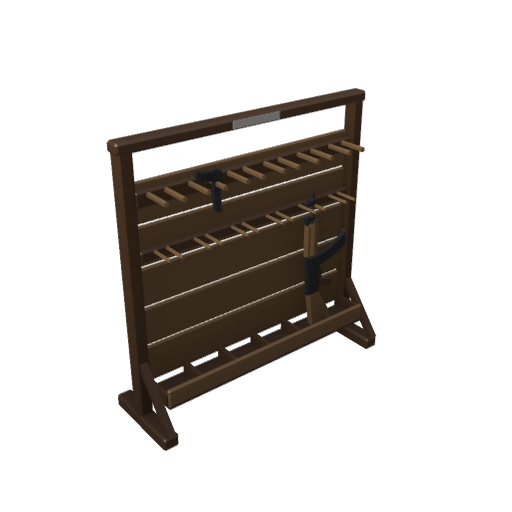
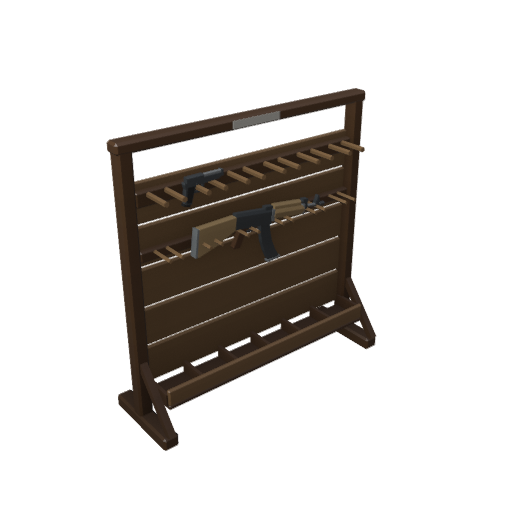
Weapon rack rev c: AK and pistol re-posed to read at range

Changed region(s): [[0.3438, 0.3125, 0.6875, 0.625]]

diff --git a/assets/source/prop/prop_weapon_rack_a/build.py b/assets/source/prop/prop_weapon_rack_a/build.py
@@ -1,8 +1,8 @@
 """prop_weapon_rack_a — free-standing wall-style gun rack on legs, 1.6 x 1.6 x 0.5 m (empty).
 Plank backboard between two posts with splayed feet, a butt tray at the bottom and peg pairs at the top
 (front = -Z). Sockets SOCKET_slot_0..5 mark where a long gun rests (butt-in-tray point).
-rev b (QA-029): a lower barrel-rest rail at y = 1.0 for long guns, and a separate child part "GUNS"
-(an AK standing in slot 1, a pistol hanging by its trigger guard in slot 4) that the world hides once looted.
+rev b (QA-029): a lower rail with pegs at y = 1.0, and a separate child part "GUNS" (an AK lying across the
+lower pegs, a pistol hooked by its trigger guard on the top pegs) that the world hides once looted.
 """
 import os
 import sys
@@ -57,15 +57,20 @@ def slot_x(k):
     return -PX + 0.04 + (2 * PX - 0.08) * (k + 0.5) / SLOTS
 
 
-# GUNS part (pivot at the rack origin): simplified (lod 1) copies of wpn_rifle_a / wpn_pistol_a
+# GUNS part (pivot at the rack origin): simplified (lod 1) copies of wpn_rifle_a / wpn_pistol_a, lying
+# horizontally on the pegs with their side profile to the front (-Z), muzzles toward -X, a little proud of the
+# rails. Recoloured lighter than the board so they read from 3-6 m.
+LIGHT = {"wood_raw": "plywood", "wood_dark": "leather_brown", "metal_gun": "metal_dark", "metal_dark": "metal_bare"}
+PEG_TOP_REST = REST_Y + 0.015 + 0.012
+PEG_TOP_UP = 1.32 + 0.015
 m.part("GUNS", pivot=(0, 0, 0))
-bore_x = wpnlib.RIFLE_BORE - wpnlib.GY  # gun-space height of the bore above the grip -> +X once stood up
-with m.xform((slot_x(1) - bore_x, 0.215 + 0.29, -0.07), (0, 90, 0)):  # side faces -Z, receiver top to +X
-    with m.xform(rot=(90, 0, 0)):  # muzzle up, butt down in the tray
-        wpnlib.rifle_body(m, 1)
-        wpnlib.rifle_mag(m, lod=1)
-with m.xform((slot_x(4) + 0.0015, 1.32 + 0.03, -0.08), (0, 90, 0)):
-    with m.xform(rot=(-90, 0, 0)):  # muzzle down, hanging by the trigger guard on the top peg
+with m.recolor(LIGHT):
+    rec_bottom = -wpnlib.GY  # receiver underside height above the grip origin
+    with m.xform((0.156, PEG_TOP_REST + 0.002 - rec_bottom, -0.06), (0, 0, 7)):  # barrel dips onto its peg
+        with m.xform(rot=(0, 90, 0)):  # barrel -> -X, right side faces -Z
+            wpnlib.rifle_body(m, 1)
+            wpnlib.rifle_mag(m, lod=1)
+    with m.xform((slot_x(4) + 0.08, PEG_TOP_UP - 0.03, -0.06), (0, 90, 0)):  # dust cover on one peg, guard on the other
         wpnlib.pistol_body(m, 1)
         wpnlib.pistol_mag(m, lod=1)
 m.part(None)

diff --git a/tools/blender/vlib.py b/tools/blender/vlib.py
@@ -72,6 +72,7 @@ class Builder:
         self.col_boxes = []  # explicit compound collider boxes (center, size, rot)
         self._target = None
         self._xf = None  # extra placement matrix from xform()
+        self._swap = {}  # swatch substitutions from recolor()
 
     # ---------- primitives ----------
     def _slot(self, swatch):
@@ -187,6 +188,16 @@ class Builder:
         finally:
             self._xf = prev
 
+    @contextlib.contextmanager
+    def recolor(self, mapping):
+        """`with m.recolor({"wood_raw": "plywood"}):` - recolour a reused sub-model (one-step lookup)."""
+        prev = self._swap
+        self._swap = {**prev, **mapping}
+        try:
+            yield self
+        finally:
+            self._swap = prev
+
     def collider_box(self, center, size, rot=(0, 0, 0)):
         """Add one box to a compound collider (exported as <id>_COL_box_N; put the largest first). If any are
         added, finish() uses them instead of the automatic bounding box. The runtime reads each as a world AABB."""
@@ -238,6 +249,7 @@ class Builder:
         return self
 
     def _merge(self, tmp, swatch):
+        swatch = self._swap.get(swatch, swatch)
         if self._xf is not None:
             bmesh.ops.transform(tmp, matrix=self._xf, verts=tmp.verts)
         slot = self._slot(swatch)

diff --git a/docs/pipeline/asset-requests.md b/docs/pipeline/asset-requests.md
@@ -48,3 +48,4 @@ Status: `requested` → `in-progress` → `done` (or `blocked: reason`). Budgets
 | prop_target_plate_a (rev b) | swinging steel plate on gallows | prop | lead / environment | plate is child part `PLATE` (empty at hinge (0, 1.8, 0), mesh `prop_target_plate_a_PLATE`); rotate PLATE.rotation.x (negative = bottom kicks to +Z); SOCKET_hinge (0,1.8,0), SOCKET_hit static; gallows posts x=±0.42, bar y=1.81 (now in the model) | 0.92x1.88x0.34 | medium prop | - | - | box | 1 | done | `assets/models/prop/prop_target_plate_a.glb` tris 312/72/60 + PLATE 316; preview `assets/previews/prop_target_plate_a_sheet.png` |
 | prop_weapon_rack_a (rev b, QA-029) | gun rack with guns | prop | lead / QA | lower barrel-rest rail y=1.0; child part `GUNS` (empty at rack origin) = AK standing in slot 1 + pistol hanging in slot 4; hide GUNS when looted | 1.6x1.6x0.5 | medium prop | - | - | box | 1 | done | `assets/models/prop/prop_weapon_rack_a.glb` tris 1120/132/72 + GUNS 508; preview `assets/previews/prop_weapon_rack_a_sheet.png` |
 | (pipeline) parts fix | part pivots survive meshopt | - | asset-builder | every part (WHEEL_*, MAG, PLATE, GUNS) is now an EMPTY at the pivot with a child mesh `<id>_<part>`: meshopt quantization rewrites mesh-node TRS, which had moved MAG/PLATE pivots by cm. Rebuilt wpn_pistol_a, wpn_rifle_a, veh_pickup_a | - | - | - | - | - | 1 | done | - |
+| prop_weapon_rack_a (rev c, lead review) | gun rack with guns, re-posed | prop | lead | GUNS re-posed: AK lying horizontally on the y=1.0 pegs (0.88 m, muzzle to -X, side profile to -Z, 6 cm proud), pistol hooked by its trigger guard on the top pegs (slot 4); guns recoloured lighter (plywood furniture, metal_dark/metal_bare steel) | 1.6x1.6x0.5 | medium prop | - | - | box | 1 | done | `assets/models/prop/prop_weapon_rack_a.glb` tris 1120/132/72 + GUNS 508; preview `assets/previews/prop_weapon_rack_a.png`, `_sheet.png`, eye checks `prop_weapon_rack_a.eye3m.tmp.png` / `.eye6m.tmp.png` |
